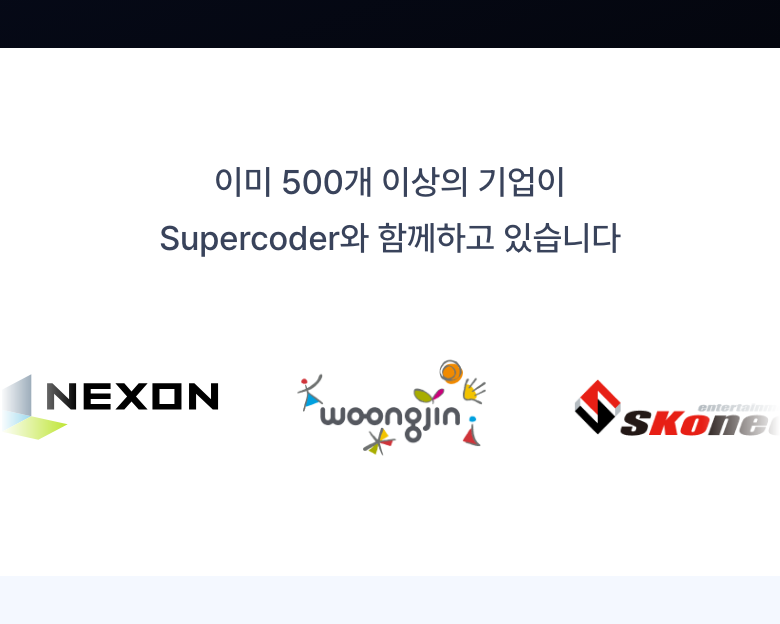
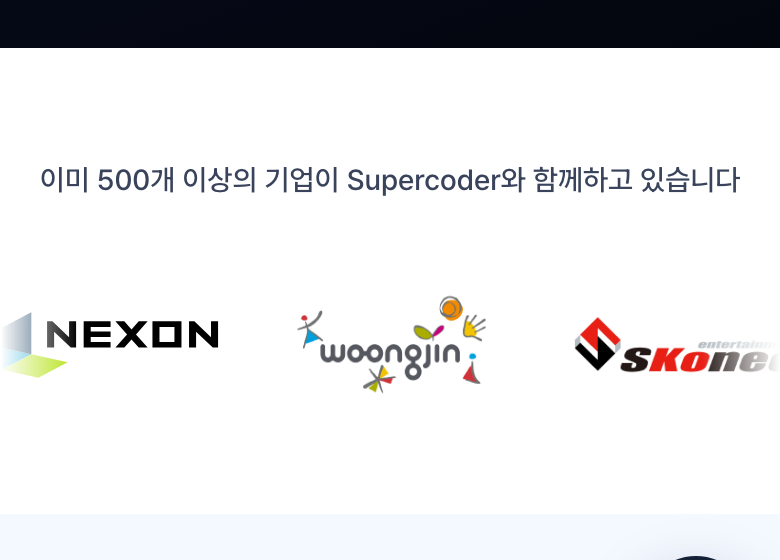
fix(landing): 도입사 로고 라벨이 모바일에서 화면 밖으로 잘리던 문제
.hs-label이 .wrap 밖에 있어 좌우 거터가 0이었다. 문구 폭은 17px 기준
411px라 452px보다 좁은 화면에선 화면 끝까지 닿거나 두 줄로 접혔다.

- 라벨만 .wrap으로 감싸 좌우 거터 확보(마퀴는 화면 끝까지 흘러야 하므로
  밖에 그대로 둔다)
- 가용폭에 맞춰 글자 크기를 줄여 항상 한 줄로: min(17px, (100vw - 32px)
  * .0405). 계수는 17px ÷ 411px + 여유 2%. 452px 이상에선 17px 그대로

320·360·375·390·414·430·452·500·768·1440px에서 한 줄 유지 및 가로
오버플로 없음을 확인했다.

diff --git a/app/landing.css b/app/landing.css
@@ -61,8 +61,11 @@
   /* 로고 루프 — 흰 배경으로 위/아래 섹션과 구분 (multiply가 흰 배경에서 가장 깔끔) */
   /* 위아래 여백은 사이트 섹션 리듬(--sec-y)을 따른다 — 로고 스트립이라 섹션의 75%로 */
   .herostrip{background:#fff;padding:calc(var(--sec-y) * .75) 0}
-  /* text-wrap:balance → 좁은 화면에서 두 줄로 접힐 때 '있습니다'만 홀로 남지 않게 줄 길이를 고르게 */
-  .hs-label{font-size:17px;color:var(--slate);font-weight:500;text-align:center;margin-bottom:40px;text-wrap:balance}
+  /* 한 줄 유지 — 이 문구는 17px에서 폭 411px라 좁은 화면(≲452px)에선 두 줄로 접힌다.
+     .wrap 안쪽 가용폭(100vw - 좌우 거터 32px)에 맞춰 글자를 줄여 항상 한 줄로 앉힌다.
+     계수 .0405 = 17px ÷ 411px + 여유 2%(폰트 로딩·반올림 차이로 접히지 않도록).
+     min()이라 452px 이상에서는 그냥 17px. text-wrap:balance는 계산이 어긋났을 때의 안전망. */
+  .hs-label{font-size:min(17px,calc((100vw - 32px) * .0405));color:var(--slate);font-weight:500;text-align:center;margin-bottom:40px;text-wrap:balance}
   .marquee{position:relative;overflow:hidden;width:100%;
     -webkit-mask-image:linear-gradient(90deg,transparent 0,#000 10%,#000 90%,transparent 100%);
             mask-image:linear-gradient(90deg,transparent 0,#000 10%,#000 90%,transparent 100%)}

diff --git a/app/page.tsx b/app/page.tsx
@@ -83,7 +83,10 @@ export default async function HomePage() {
 
       {/* SECTION 02 · CLIENTS (도입사 로고 마퀴) */}
       <div className="herostrip" id="clients">
-        <p className="hs-label">이미 500개 이상의 기업이 Supercoder와 함께하고 있습니다</p>
+        {/* 라벨만 .wrap으로 감싼다 — 마퀴는 화면 끝까지 흘러야 하므로 밖에 둔다 */}
+        <div className="wrap">
+          <p className="hs-label">이미 500개 이상의 기업이 Supercoder와 함께하고 있습니다</p>
+        </div>
         <div className="marquee">
           <div className="marquee-track">
             {Array.from({ length: 6 }).map((_, block) =>
